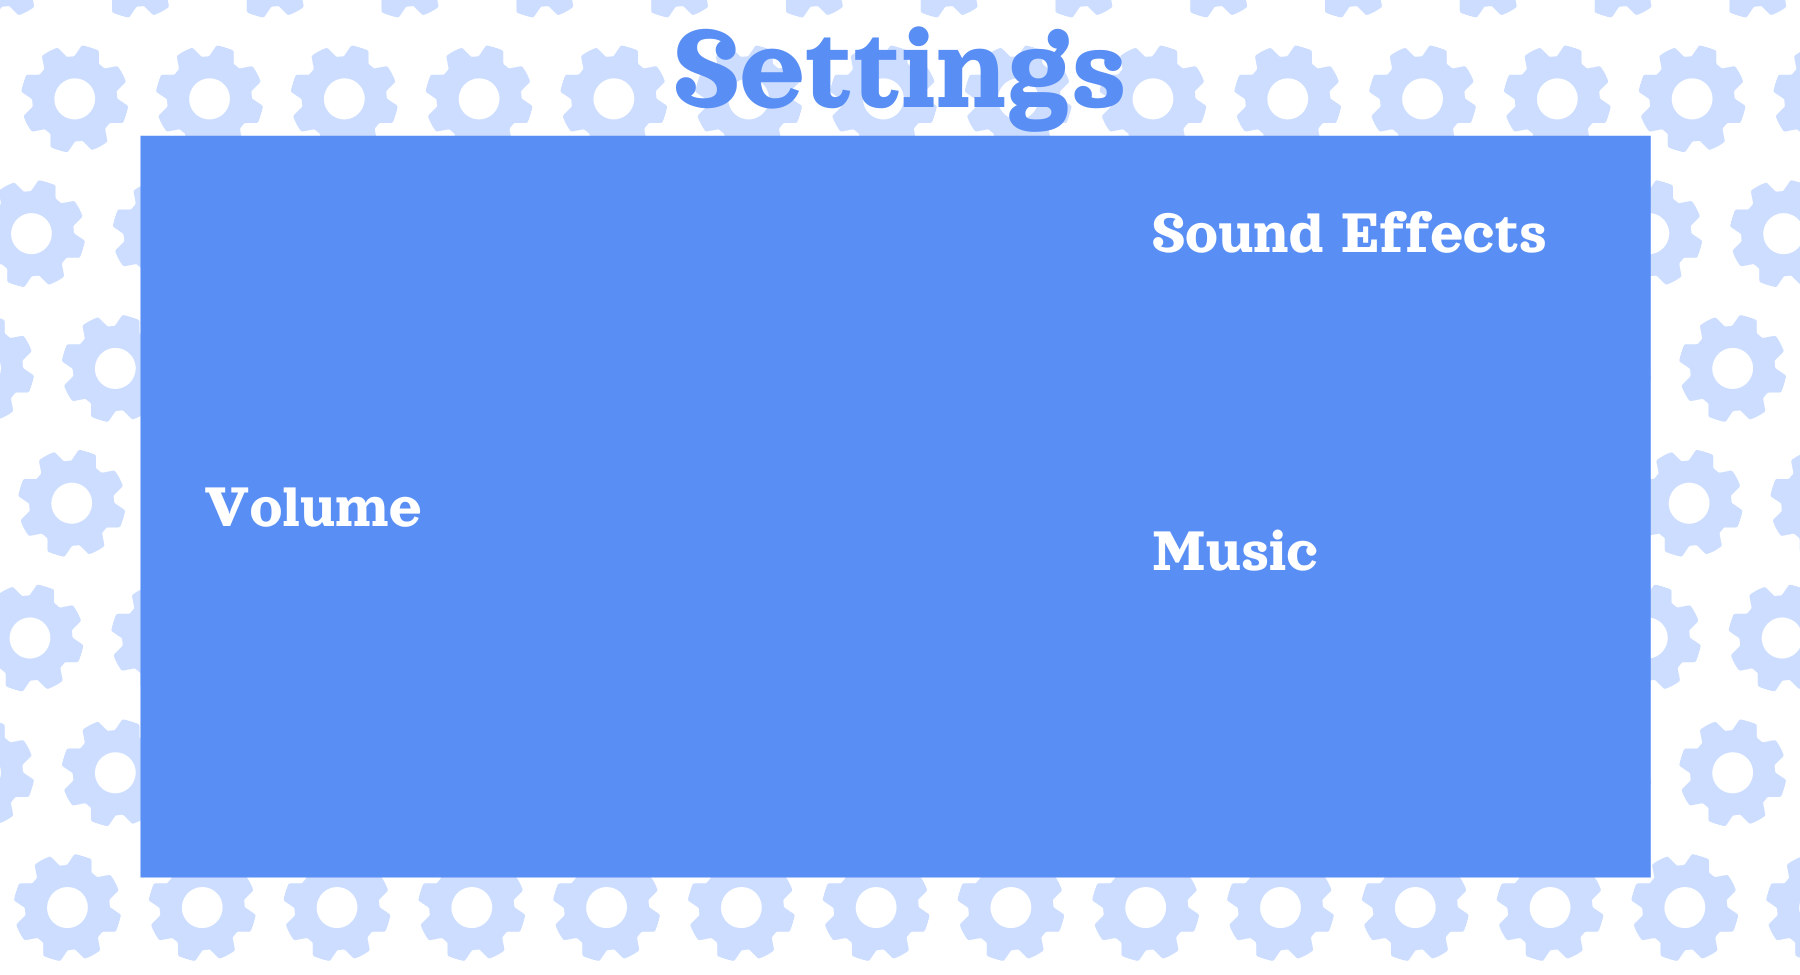
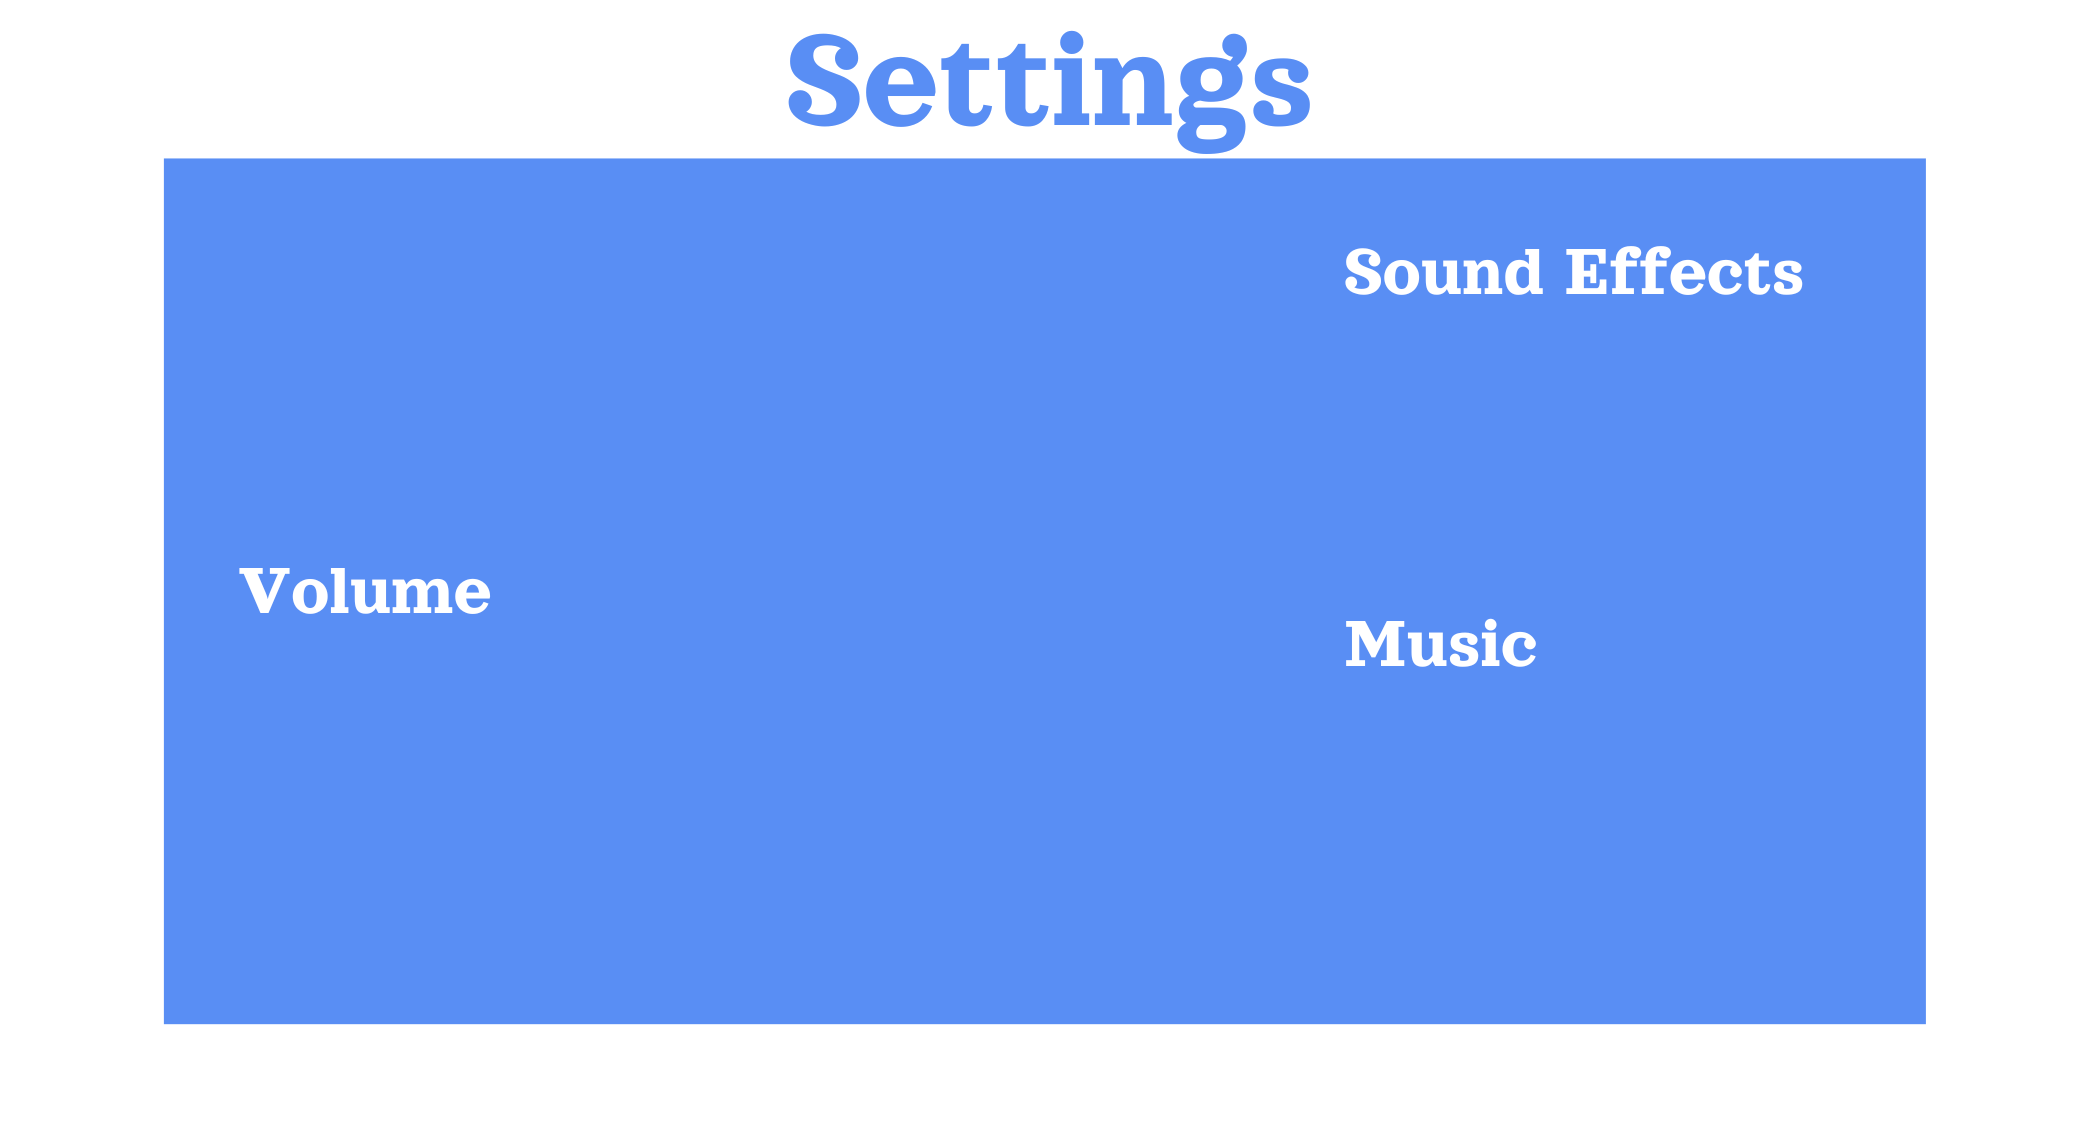
FIRSTMate-0005-SoundPlayer Added toggle button for enabling and disabling music and modified settings screen appearance.

diff --git a/src/General/Button.java b/src/General/Button.java
@@ -14,6 +14,7 @@ public class Button {
     private Runnable action;
     private Condition condition;
     private ImageIcon conditionalAppearance;
+    private ImageIcon conditionalAppearanceHover;
 
     public Button(){
         name = "Button.java: Empty Constructor";
@@ -36,7 +37,7 @@ public class Button {
         action = inputAction;
     }
 
-    public Button(String inputName, ImageIcon inputIconRegular, ImageIcon inputIconHover, int inputX, int inputY, int inputW, int inputH, Runnable inputAction, Condition inputCondition, ImageIcon inputConditionalAppearance){
+    public Button(String inputName, ImageIcon inputIconRegular, ImageIcon inputIconHover, int inputX, int inputY, int inputW, int inputH, Runnable inputAction, Condition inputCondition, ImageIcon inputConditionalAppearance, ImageIcon inputConditionalAppearanceHover){
         name = inputName;
         iconRegular = inputIconRegular;
         iconHover = inputIconHover;
@@ -48,6 +49,7 @@ public class Button {
         action = inputAction;
         condition = inputCondition;
         conditionalAppearance = inputConditionalAppearance;
+        conditionalAppearanceHover = inputConditionalAppearanceHover;
     }
 
     public interface Condition {
@@ -60,14 +62,6 @@ public class Button {
 
     public void drawButton (Graphics g2d){
         g2d.drawImage(icon.getImage(),x,y,w,h,null);
-        if (condition == null || condition.evaluate()) {
-            g2d.drawImage(icon.getImage(),x,y,w,h,null);
-        } else {
-            if(icon != iconHover){
-                icon = conditionalAppearance;
-            }
-            g2d.drawImage(icon.getImage(),x,y,w,h,null);
-        }
     }
 
     public void check(int mouseX, int mouseY){
@@ -77,6 +71,15 @@ public class Button {
         if(mouse.intersects(me)){
             executeButtonAction();
             icon = iconRegular;
+            startAppearance();
+        }
+    }
+
+    public void startAppearance(){
+        if(condition != null && condition.evaluate()){
+                icon = conditionalAppearance;
+        } else {
+                icon = iconRegular;
         }
     }
 
@@ -84,10 +87,18 @@ public class Button {
         Rectangle mouse = new Rectangle(mouseX,mouseY,1,1);
         Rectangle me = new Rectangle(x,y,w,h);
 
-        if(mouse.intersects(me)){
-            icon = iconHover;
+        if(condition != null && condition.evaluate()){
+            if(mouse.intersects(me)){
+                icon = conditionalAppearanceHover;
+            } else {
+                icon = conditionalAppearance;
+            }
         } else {
-            icon = iconRegular;
+            if(mouse.intersects(me)){
+                icon = iconHover;
+            } else {
+                icon = iconRegular;
+            }
         }
     }
 }

diff --git a/src/Screens/Settings.java b/src/Screens/Settings.java
@@ -9,9 +9,9 @@ public class Settings extends Screen {
 
     private static boolean enabledSoundEffects = true;
     private static boolean enabledMusic = true;
-    private static double volume = 100.0;
+    private static float volume = 1.0f;
 
-    public static double volume(){
+    public static float volume(){
         return volume;
     }
 
@@ -32,7 +32,15 @@ public class Settings extends Screen {
         Button[] myButtons = {
             new Button("Back Button", new ImageIcon("IMG-Buttons/BUTTON-Back.png"),new ImageIcon("IMG-Buttons/BUTTON-BackHover.png"),25, 25,60,60, () -> {
                 Game.setScreen(Game.previousString());
-            })
+            }),
+            new Button("Music Toggle", new ImageIcon("IMG-Buttons/BUTTON-EnabledToggle.png"),new ImageIcon("IMG-Buttons/BUTTON-EnabledToggleHover.png"), 800,400,200,100, () -> {
+                enabledMusic = !enabledMusic;
+                if(!enabledMusic){
+                    sfx().stopAllSounds();
+                } else {
+                    setStartPlayer(true);
+                }
+            }, () -> !enabledMusic, new ImageIcon("IMG-Buttons/BUTTON-DisabledToggle.png"), new ImageIcon("IMG-Buttons/BUTTON-DisabledToggleHover.png"))
         };
         
         this.setCredits(myCredits);
@@ -40,10 +48,11 @@ public class Settings extends Screen {
     }
 
     public void drawScreenFeatures(Graphics g2d){
-        if(startPlayer()){
+        if(startPlayer() && enabledMusic){
             sfx().playmusic('M',"SFX-Music/MUSIC-Ballerina.wav", true,75.0f);
             setStartPlayer(false);
         }
+        g2d.drawImage(new ImageIcon("IMG-Miscellaneous/MISC-PlatypusAndGears.png").getImage(),108,103,628,431,null);
     }
 
 }

diff --git a/src/Screens/OpeningScreen.java b/src/Screens/OpeningScreen.java
@@ -25,7 +25,7 @@ public class OpeningScreen extends Screen {
             }),
             new Button("Settings Button", new ImageIcon("IMG-Buttons/BUTTON-Settings.png"),new ImageIcon("IMG-Buttons/BUTTON-SettingsHover.png"),1137, 10,50,50, () -> {
                 Game.setScreen("Settings Screen");
-            }, () -> Settings.volume()>50.0, new ImageIcon("IMG-Buttons/BUTTON-ReleaseNotes.png"))
+            })
         };
         
         this.setCredits(myCredits);
@@ -33,7 +33,7 @@ public class OpeningScreen extends Screen {
     }
 
     public void drawScreenFeatures(Graphics g2d){
-        if(startPlayer()){
+        if(startPlayer() && Settings.enabledMusic()){
             sfx().playmusic('M',"SFX-SoundEffects/SOUNDEFFECT-Seagulls.wav", true,95.0f);
             sfx().playmusic('S',"SFX-Music/MUSIC-EmeraldSeas.wav", true,85.0f);
             setStartPlayer(false);

diff --git a/src/General/SoundPlayer.java b/src/General/SoundPlayer.java
@@ -12,12 +12,12 @@ public class SoundPlayer {
     public void playmusic(char type,String musicfile, boolean repeat, float volume) {
         File soundFile = new File(musicfile);
         try {
-			if((type == 'S' && Settings.enabledSoundEffects()) || (type == 'M' && Settings.enabledMusic())) {
+			if((type == 'S' && Settings.enabledSoundEffects()) || type == 'M') {
 				Clip clip = AudioSystem.getClip();
 				AudioInputStream inputStream = AudioSystem.getAudioInputStream(soundFile);
 				clip.open(inputStream);
 
-				volume *= (Settings.volume()/100);
+				volume *= (Settings.volume());
 
 				FloatControl gainControl = (FloatControl) clip.getControl(FloatControl.Type.MASTER_GAIN);
 				float range = gainControl.getMaximum() - gainControl.getMinimum();

diff --git a/src/General/Game.java b/src/General/Game.java
@@ -98,11 +98,15 @@ public class Game  extends JPanel implements Runnable, KeyListener, MouseListene
 	//TODO Getters and Setters
 
 	public static void setScreen(String inputString){
+
 		myScreen.sfx().stopAllSounds();
 		previousScreen = screen;
 		previousScreenObject = myScreen;
 		screen = inputString;
 		setScreen();
+		for(Button b: myScreen.buttons()){
+			b.startAppearance();
+		}
 		myScreen.setStartPlayer(true);
 	}
 

diff --git a/src/Screens/CreditsScreen.java b/src/Screens/CreditsScreen.java
@@ -37,7 +37,7 @@ public class CreditsScreen extends Screen{
     public void drawScreenFeatures(Graphics g2d){
         g2d.setColor(blue);
         g2d.fillRect(100,100,1000,400);
-        if(startPlayer()){
+        if(startPlayer() && Settings.enabledMusic()){
             sfx().playmusic('M',"SFX-Music/MUSIC-Ballerina.wav", true,75.0f);
             setStartPlayer(false);
         }

diff --git a/src/Screens/ReleasesScreen.java b/src/Screens/ReleasesScreen.java
@@ -43,7 +43,7 @@ public class ReleasesScreen extends Screen{
         this.setButtons(myButtons);
     }
     public void drawScreenFeatures(Graphics g2d){
-        if(startPlayer()){
+        if(startPlayer() && Settings.enabledMusic()){
             sfx().playmusic('M',"SFX-Music/MUSIC-Ballerina.wav", true,75.0f);
             setStartPlayer(false);
         }
